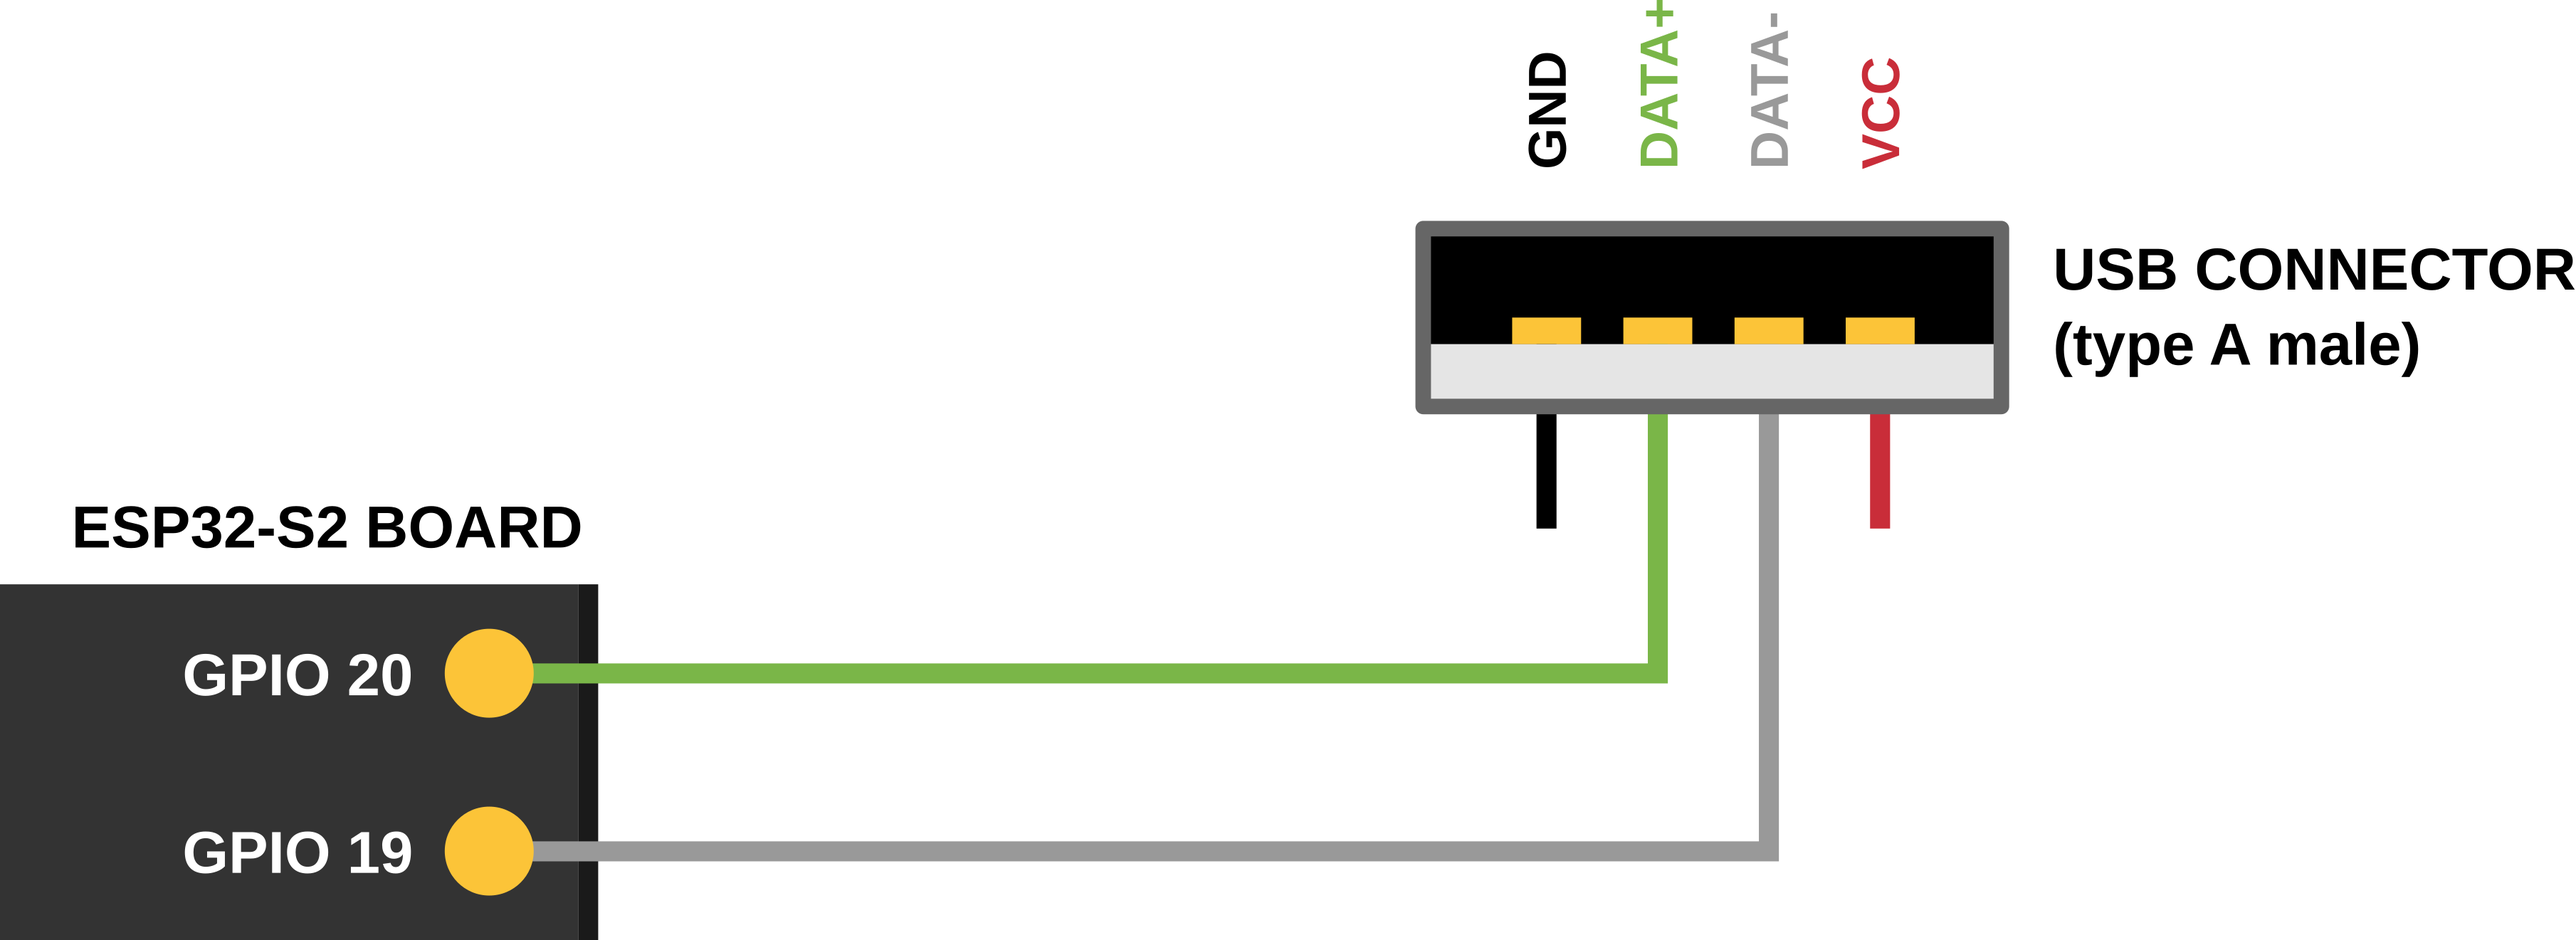
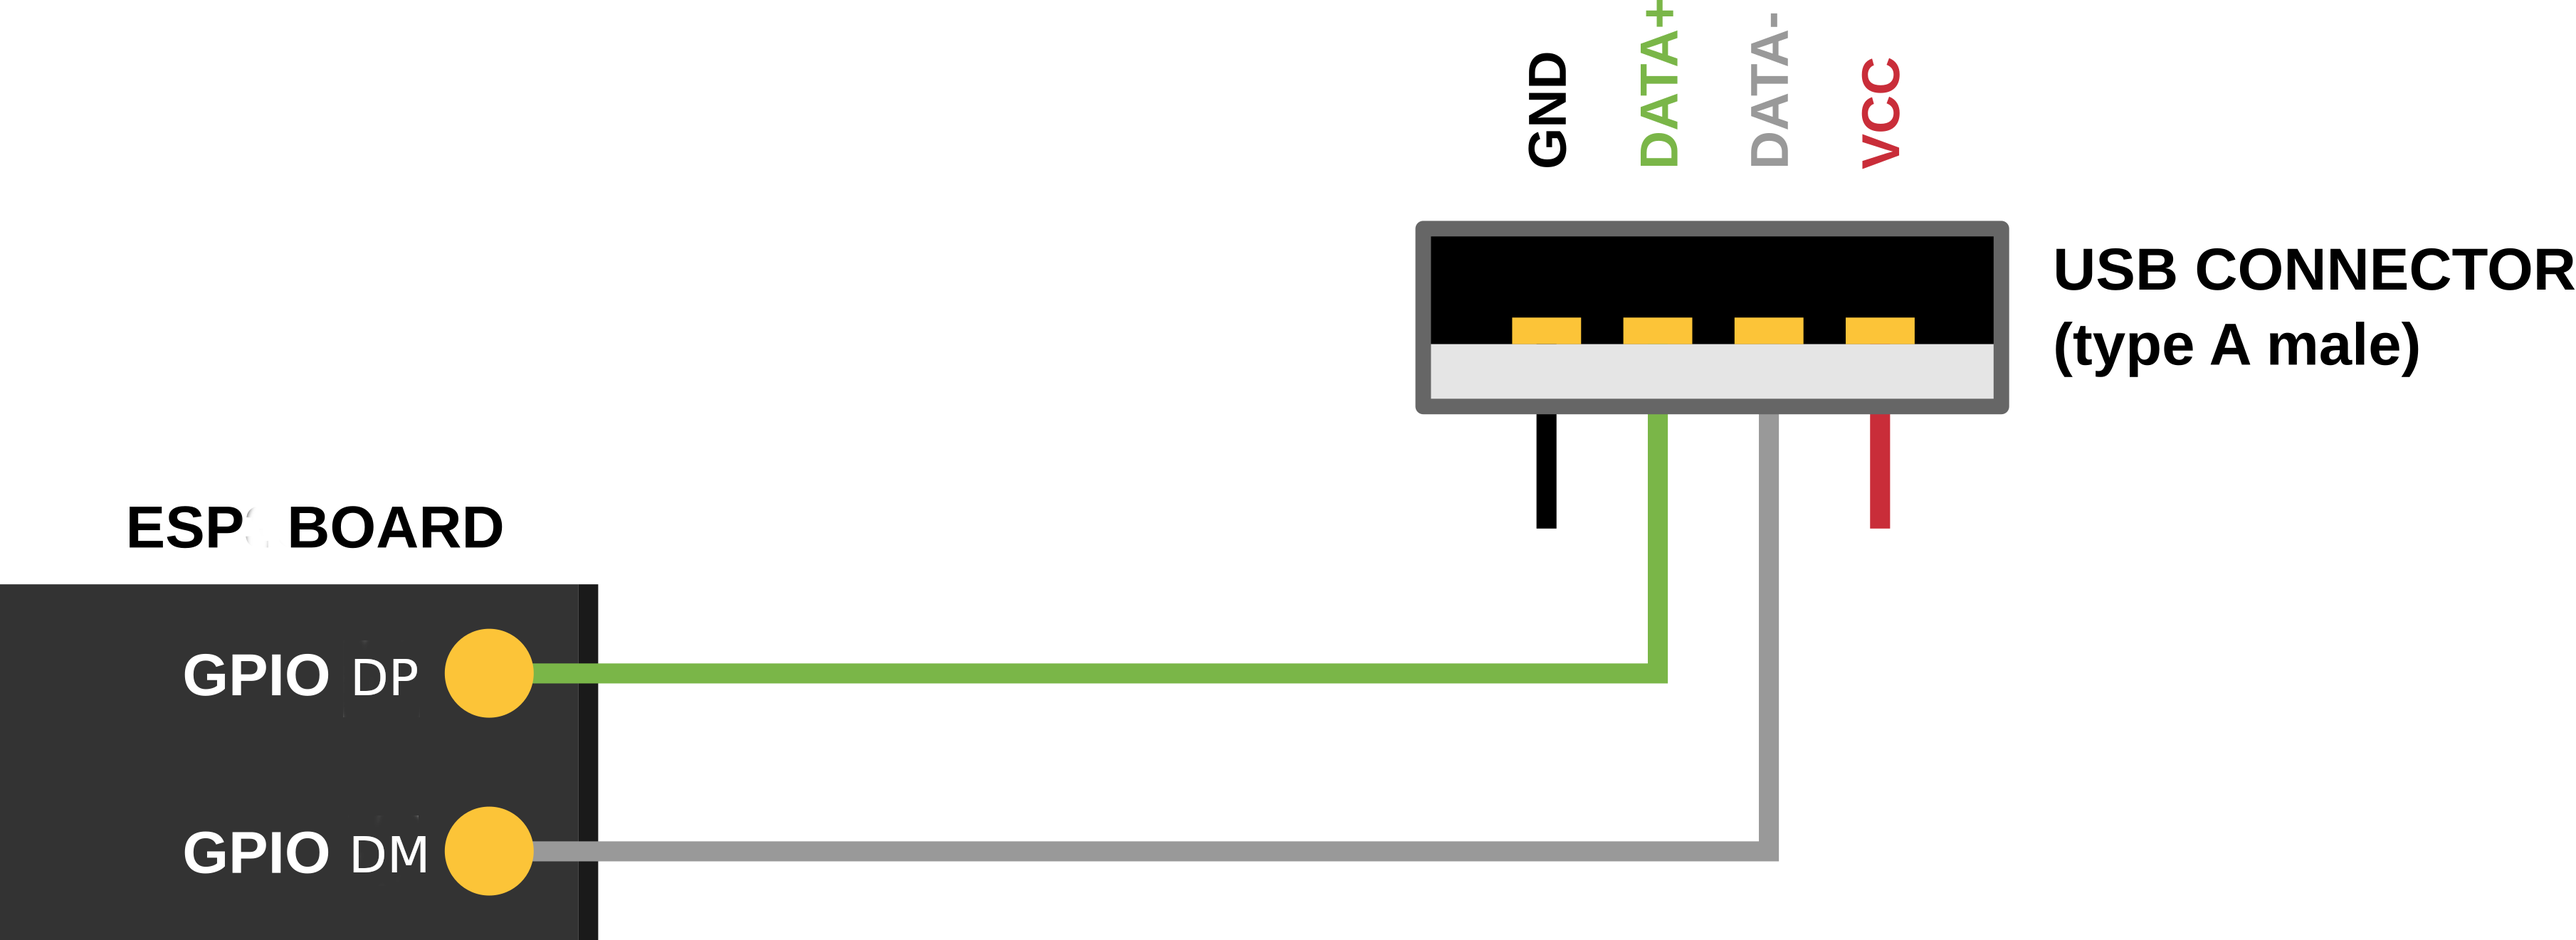
doc: update tinyusb document to support esp32s3
1. Renamed SOC_USB_SUPPORTED to SOC_USB_OTG_SUPPORTED for the reason of
   another USB related peripheral: USB_JTAG_SERIAL
2. correct related document

Changed region(s): [[0.0312, 0.5276, 0.2186, 0.5897], [0.1249, 0.869, 0.1873, 0.9311], [0.1249, 0.6828, 0.1561, 0.7449]]

diff --git a/docs/conf_common.py b/docs/conf_common.py
@@ -164,7 +164,7 @@ LEGACY_DOCS = ['api-guides/build-system-legacy.rst',
                'api-guides/unit-tests-legacy.rst',
                'get-started-legacy/**']
 
-USB_DOCS = ['api-reference/peripherals/usb.rst',
+USB_DOCS = ['api-reference/peripherals/usb_device.rst',
             'api-guides/usb-otg-console.rst',
             'api-guides/dfu.rst']
 
@@ -212,7 +212,7 @@ conditional_include_dict = {'SOC_BT_SUPPORTED':BT_DOCS,
                             'SOC_SDMMC_HOST_SUPPORTED':SDMMC_DOCS,
                             'SOC_SDIO_SLAVE_SUPPORTED':SDIO_SLAVE_DOCS,
                             'SOC_MCPWM_SUPPORTED':MCPWM_DOCS,
-                            'SOC_USB_SUPPORTED':USB_DOCS,
+                            'SOC_USB_OTG_SUPPORTED':USB_DOCS,
                             'SOC_USB_SERIAL_JTAG_SUPPORTED':USB_SERIAL_JTAG_DOCS,
                             'SOC_DEDICATED_GPIO_SUPPORTED':DEDIC_GPIO_DOCS,
                             'SOC_SPIRAM_SUPPORTED':SPIRAM_DOCS,

diff --git a/components/soc/esp32s2/include/soc/soc_caps.h b/components/soc/esp32s2/include/soc/soc_caps.h
@@ -44,7 +44,7 @@
 #define SOC_DEDICATED_GPIO_SUPPORTED    1
 #define SOC_SUPPORTS_SECURE_DL_MODE     1
 #define SOC_RISCV_COPROC_SUPPORTED      1
-#define SOC_USB_SUPPORTED               1
+#define SOC_USB_OTG_SUPPORTED           1
 #define SOC_PCNT_SUPPORTED              1
 #define SOC_ULP_SUPPORTED               1
 #define SOC_RTC_SLOW_MEM_SUPPORTED      1

diff --git a/components/soc/esp32s3/include/soc/soc_caps.h b/components/soc/esp32s3/include/soc/soc_caps.h
@@ -15,6 +15,7 @@
 #define SOC_CPU_CORES_NUM               2
 #define SOC_CACHE_SUPPORT_WRAP          1
 #define SOC_ULP_SUPPORTED               1
+#define SOC_USB_OTG_SUPPORTED           1
 #define SOC_RTC_SLOW_MEM_SUPPORTED      1
 #define SOC_CCOMP_TIMER_SUPPORTED       1
 #define SOC_DIG_SIGN_SUPPORTED          0

diff --git a/docs/en/api-reference/system/freertos_additions.rst b/docs/en/api-reference/system/freertos_additions.rst
@@ -25,8 +25,8 @@ Ring Buffers
 The ESP-IDF FreeRTOS ring buffer is a strictly FIFO buffer that supports arbitrarily sized items.
 Ring buffers are a more memory efficient alternative to FreeRTOS queues in situations where the
 size of items is variable. The capacity of a ring buffer is not measured by the number of items
-it can store, but rather by the amount of memory used for storing items. The ring buffer provides API 
-to send an item, or to allocate space for an item in the ring buffer to be filled manually by the user. 
+it can store, but rather by the amount of memory used for storing items. The ring buffer provides API
+to send an item, or to allocate space for an item in the ring buffer to be filled manually by the user.
 For efficiency reasons,
 **items are always retrieved from the ring buffer by reference**. As a result, all retrieved
 items *must also be returned* to the ring buffer by using :cpp:func:`vRingbufferReturnItem` or :cpp:func:`vRingbufferReturnItemFromISR`, in order for them to be removed from the ring buffer completely.
@@ -531,6 +531,6 @@ Hooks API Reference
 Component Specific Properties
 -----------------------------
 
-Besides standart component variables that could be gotten with basic cmake build properties FreeRTOS component also provides an arguments (only one so far) for simpler integration with other modules:
+Besides standard component variables that could be gotten with basic cmake build properties FreeRTOS component also provides an arguments (only one so far) for simpler integration with other modules:
 
 - `ORIG_INCLUDE_PATH` -  contains an absolute path to freertos root include folder. Thus instead of `#include "freertos/FreeRTOS.h"` you can refer to headers directly: `#include "FreeRTOS.h"`.

diff --git a/docs/en/api-guides/performance/speed.rst b/docs/en/api-guides/performance/speed.rst
@@ -91,8 +91,8 @@ Although standard output is buffered, it's possible for an application to be lim
 .. list::
 
     - Reduce the volume of log output by lowering the app :ref:`CONFIG_LOG_DEFAULT_LEVEL` (the equivalent bootloader setting is :ref:`CONFIG_BOOTLOADER_LOG_LEVEL`). This also reduces the binary size, and saves some CPU time spent on string formatting.
-    :not SOC_USB_SUPPORTED: - Increase the speed of logging output by increasing the :ref:`CONFIG_ESP_CONSOLE_UART_BAUDRATE`
-    :SOC_USB_SUPPORTED: - Increase the speed of logging output by increasing the :ref:`CONFIG_ESP_CONSOLE_UART_BAUDRATE`. (Unless using internal USB-CDC for serial console, in which case the serial throughput doesn't depend on the configured baud rate.)
+    :not SOC_USB_OTG_SUPPORTED: - Increase the speed of logging output by increasing the :ref:`CONFIG_ESP_CONSOLE_UART_BAUDRATE`
+    :SOC_USB_OTG_SUPPORTED: - Increase the speed of logging output by increasing the :ref:`CONFIG_ESP_CONSOLE_UART_BAUDRATE`. (Unless using internal USB-CDC for serial console, in which case the serial throughput doesn't depend on the configured baud rate.)
 
 Not Recommended
 ^^^^^^^^^^^^^^^

diff --git a/docs/en/api-reference/peripherals/usb_device.rst b/docs/en/api-reference/peripherals/usb_device.rst
@@ -1,6 +1,9 @@
 
-USB Driver
-==========
+USB Device Driver
+=================
+
+{IDF_TARGET_USB_DP_GPIO_NUM:default="20"}
+{IDF_TARGET_USB_DM_GPIO_NUM:default="19"}
 
 Overview
 --------
@@ -21,12 +24,14 @@ Hardware USB Connection
 
 - Any board with the {IDF_TARGET_NAME} chip with USB connectors or with exposed USB's D+ and D- (DATA+/DATA-) pins.
 
-If the board has no USB connector but has the pins, connect pins directly to the host (e.g. with do-it-yourself cable from any USB connection cable). For example, connect GPIO19/20 to D-/D+ respectively for an ESP32-S2 board:
+If the board has no USB connector but has the pins, connect pins directly to the host (e.g. with do-it-yourself cable from any USB connection cable).
+
+On {IDF_TARGET_NAME}, connect GPIO {IDF_TARGET_USB_DP_GPIO_NUM} and {IDF_TARGET_USB_DM_GPIO_NUM} to D+/D- respectively:
 
 
 .. figure:: ../../../_static/usb-board-connection.png
     :align: center
-    :alt: Connection of a board to a host ESP32-S2
+    :alt: Connection of a board to a host ESP chip
     :figclass: align-center
 
 Driver Structure

diff --git a/docs/en/api-guides/index.rst b/docs/en/api-guides/index.rst
@@ -12,7 +12,7 @@ API Guides
     Build System <build-system>
     :esp32: Build System (Legacy GNU Make) <build-system-legacy>
     Deep Sleep Wake Stubs <deep-sleep-stub>
-    :SOC_USB_SUPPORTED: Device Firmware Upgrade through USB <dfu>
+    :SOC_USB_OTG_SUPPORTED: Device Firmware Upgrade through USB <dfu>
     Error Handling <error-handling>
     :SOC_BT_SUPPORTED: ESP-BLE-MESH <esp-ble-mesh/ble-mesh-index>
     ESP-WIFI-MESH <esp-wifi-mesh>
@@ -41,6 +41,6 @@ API Guides
     Unit Testing (Target) <unit-tests>
     Unit Testing (Linux Host) <linux-host-testing>
     :esp32: Unit Testing (Legacy GNU Make) <unit-tests-legacy>
-    :SOC_USB_SUPPORTED: USB OTG Console <usb-otg-console>
+    :SOC_USB_OTG_SUPPORTED: USB OTG Console <usb-otg-console>
     :SOC_USB_SERIAL_JTAG_SUPPORTED: USB Serial/JTAG Controller Console <usb-serial-jtag-console>
     WiFi Driver <wifi>

diff --git a/docs/zh_CN/api-guides/index.rst b/docs/zh_CN/api-guides/index.rst
@@ -12,7 +12,7 @@ API 指南
    构建系统 <build-system>
    :esp32: 构建系统 (传统 GNU Make) <build-system-legacy>
    深度睡眠唤醒存根 <deep-sleep-stub>
-   :esp32s2: 通过 USB 升级设备固件 <dfu>
+   :SOC_USB_OTG_SUPPORTED: 通过 USB 升级设备固件 <dfu>
    错误处理 <error-handling>
    :SOC_BT_SUPPORTED: ESP-BLE-MESH <esp-ble-mesh/ble-mesh-index>
    ESP-WIFI-MESH <esp-wifi-mesh>
@@ -41,6 +41,6 @@ API 指南
    单元测试 (Target) <unit-tests>
    单元测试 (Linux Host) <linux-host-testing>
    :esp32: 单元测试 (传统 GNU Make) <unit-tests-legacy>
-   :SOC_USB_SUPPORTED: USB 控制台 <usb-otg-console>
+   :SOC_USB_OTG_SUPPORTED: USB 控制台 <usb-otg-console>
    :SOC_USB_SERIAL_JTAG_SUPPORTED: USB Serial/JTAG Controller Console <usb-serial-jtag-console>
    Wi-Fi 驱动 <wifi>

diff --git a/docs/en/api-reference/peripherals/index.rst b/docs/en/api-reference/peripherals/index.rst
@@ -33,6 +33,6 @@ Peripherals API
     :esp32s2: Touch Element <touch_element>
     TWAI <twai>
     UART <uart>
-    :SOC_USB_SUPPORTED: USB <usb>
+    :SOC_USB_OTG_SUPPORTED: USB Device <usb_device>
 
 Code examples for this API section are provided in the :example:`peripherals` directory of ESP-IDF examples.

diff --git a/docs/zh_CN/api-reference/peripherals/index.rst b/docs/zh_CN/api-reference/peripherals/index.rst
@@ -33,6 +33,6 @@
     :esp32s2: Touch Element <touch_element>
     TWAI <twai>
     UART <uart>
-    :SOC_USB_SUPPORTED: USB <usb>
+    :SOC_USB_OTG_SUPPORTED: USB Device <usb_device>
 
 本部分的 API 示例代码存放在 ESP-IDF 示例项目的 :example:`peripherals` 目录下。

diff --git a/docs/zh_CN/api-reference/peripherals/usb_device.rst b/docs/zh_CN/api-reference/peripherals/usb_device.rst
@@ -1,0 +1,1 @@
+.. include:: ../../../en/api-reference/peripherals/usb_device.rst
